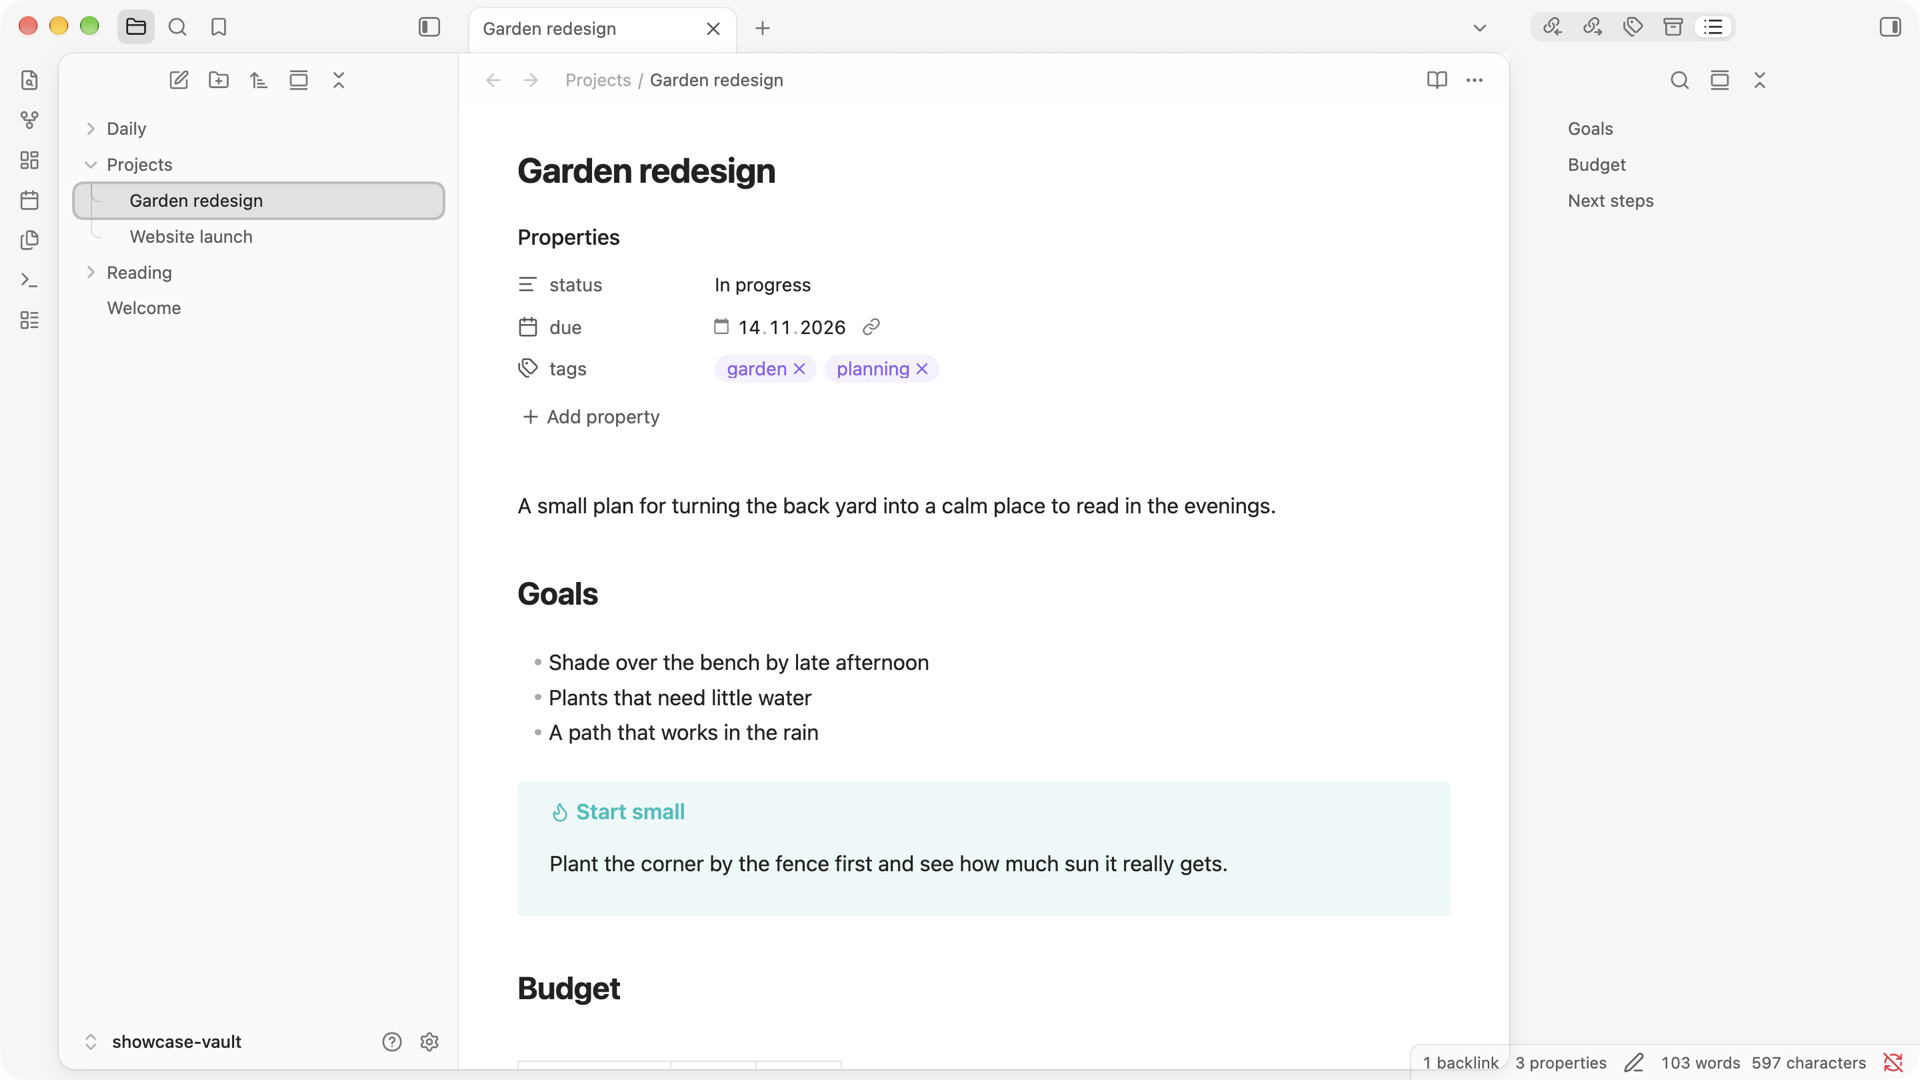
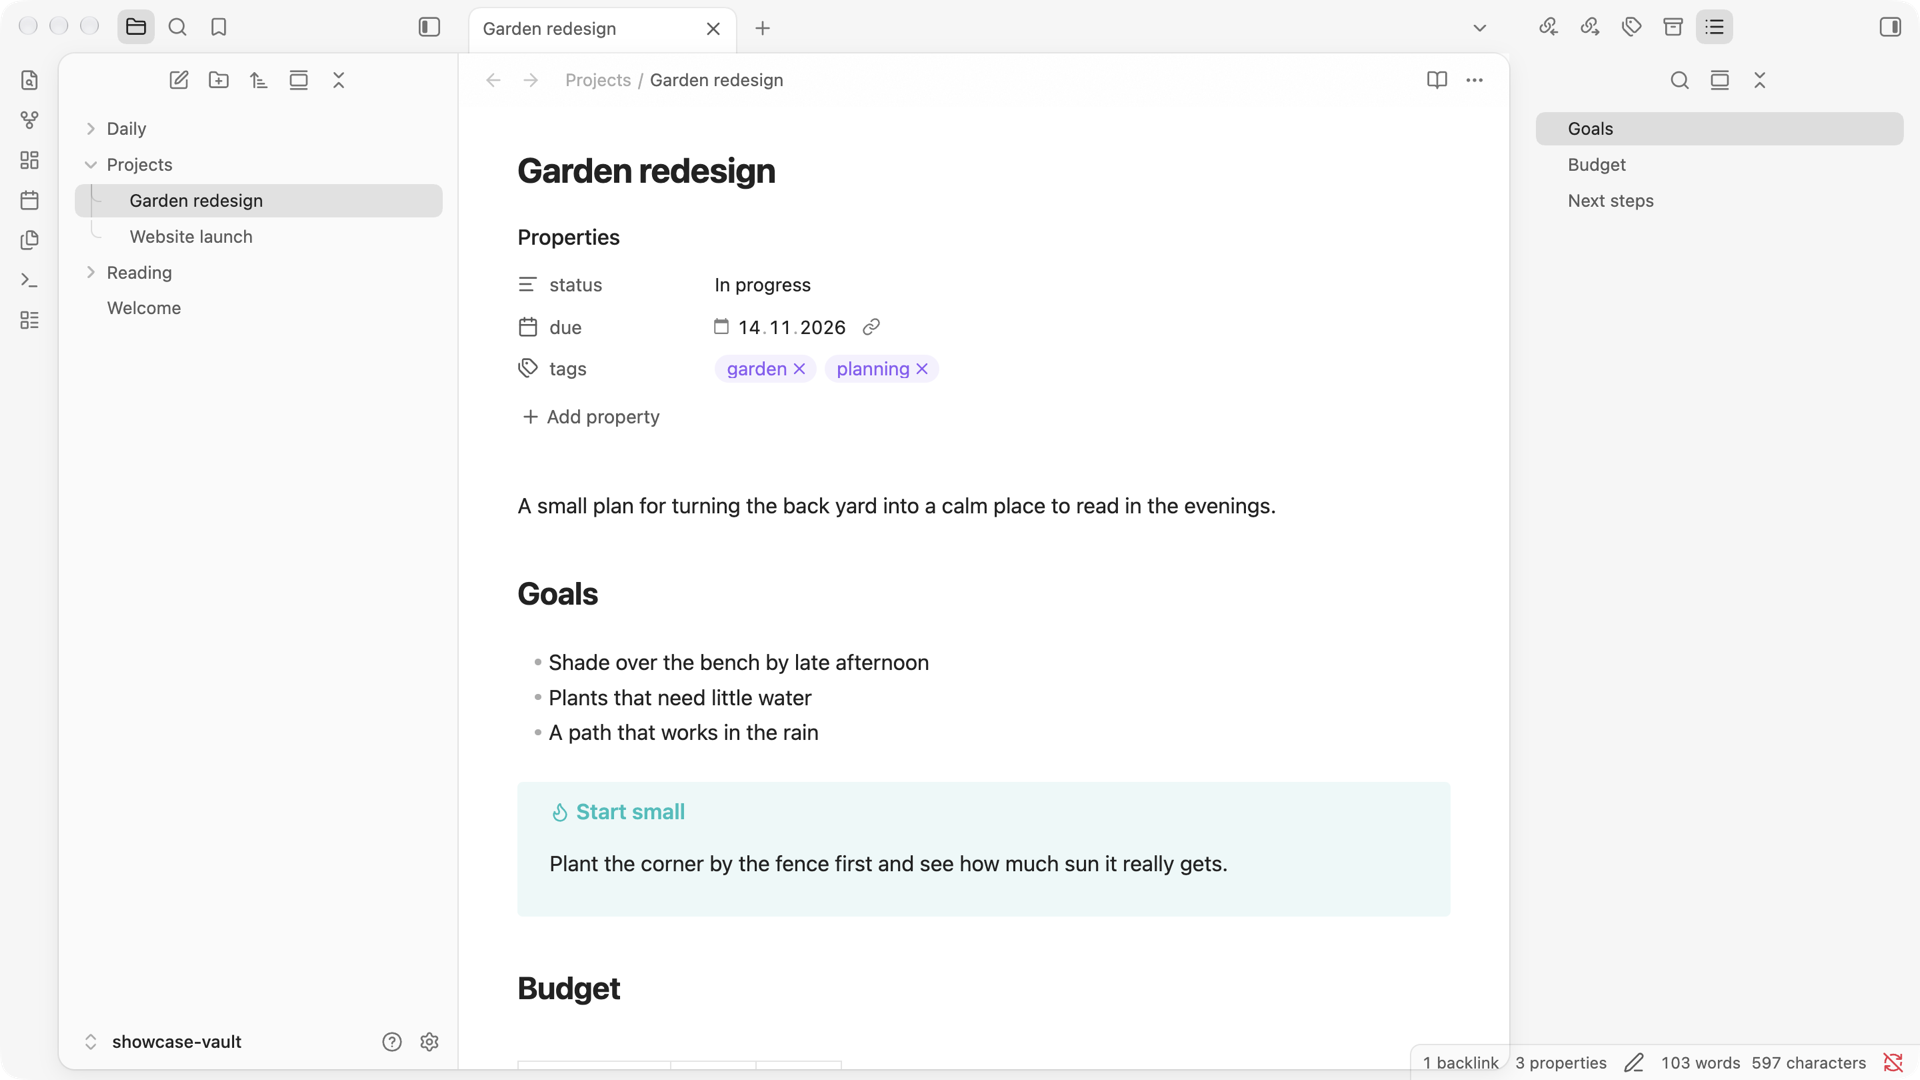
Default tab style, sync script instead of symlinks, new screenshots

diff --git a/theme.css b/theme.css
@@ -307,11 +307,6 @@ body.theme-dark {
 	--ribbon-background-collapsed: var(--inlay-chrome);
 	--tab-container-background: var(--inlay-chrome);
 	--sidebar-tab-container-background: var(--inlay-chrome);
-	--tab-background-active: var(--inlay-raised);
-	--tab-outline-width: 0px;
-	--tab-outline-color: transparent;
-	--tab-divider-color: transparent;
-	--tab-curve: 0px;
 	--file-header-border: none;
 	--nav-item-background-hover: var(--inlay-hover);
 	--nav-item-background-active: var(--inlay-active);
@@ -518,26 +513,6 @@ body:not(.inlay-flat, .is-mobile) {
 /* ==========================================================================
    5. Tabs
    ========================================================================== */
-
-/* main tabs: the active one is a white pill on the shell */
-.workspace .mod-root .workspace-tab-header::before,
-.workspace .mod-root .workspace-tab-header::after,
-.workspace .mod-root .workspace-tab-header-inner::after {
-	display: none !important;
-}
-
-.workspace .mod-root .workspace-tab-header.is-active {
-	background-color: var(--inlay-raised);
-	box-shadow: var(--inlay-raise);
-}
-
-.workspace .mod-root .workspace-tab-header .workspace-tab-header-inner {
-	background: transparent;
-}
-
-.workspace .mod-root .workspace-tab-header:not(.is-active):hover {
-	background-color: var(--inlay-hover-chrome);
-}
 
 body.inlay-tab-close-hover .mod-root .workspace-tab-header:not(:hover) .workspace-tab-header-inner-close-button {
 	opacity: 0;

diff --git a/README.md b/README.md
@@ -8,7 +8,6 @@ An Obsidian theme where the workspace is a single card **inlaid** in a neutral s
 
 - The editor and the left sidebar sit on one floating card with a soft shadow.
 - The ribbon, title bar and right sidebar rest on the shell around it.
-- Active tabs are raised pills.
 - File explorer guides curve into each row.
 - Optional **glass**: a translucent shell over the OS blur and a frosted note header that text scrolls beneath.
 
@@ -39,11 +38,13 @@ npm install
 npm run lint
 ```
 
-To work on the theme live, symlink the repository into a vault:
+To try changes in your vaults, list their paths (one per line) in `vaults.local.txt` and run:
 
 ```bash
-ln -s ~/Projects/obsidian-inlay "<vault>/.obsidian/themes/Inlay"
+npm run sync
 ```
+
+This copies `manifest.json` and `theme.css` into each vault and into `showcase-vault/`. Obsidian doesn't pick up edits made through symlinks, so vaults get real copies.
 
 ### Releasing
 
@@ -51,7 +52,7 @@ ln -s ~/Projects/obsidian-inlay "<vault>/.obsidian/themes/Inlay"
 2. Commit, then push a tag that matches the version, for example `git tag 0.2.0 && git push --tags`.
 3. The release workflow creates a draft GitHub release with `manifest.json` and `theme.css`.
 
-`screenshots/screenshot.png` (512×288) is the community directory thumbnail. To retake screenshots, open `showcase-vault/` as a vault. It already uses Inlay through a symlink to this repository.
+`screenshots/screenshot.png` (512×288) is the community directory thumbnail. To retake screenshots, open `showcase-vault/` as a vault. Run `npm run sync` first so it has the current theme.
 
 ## License
 
